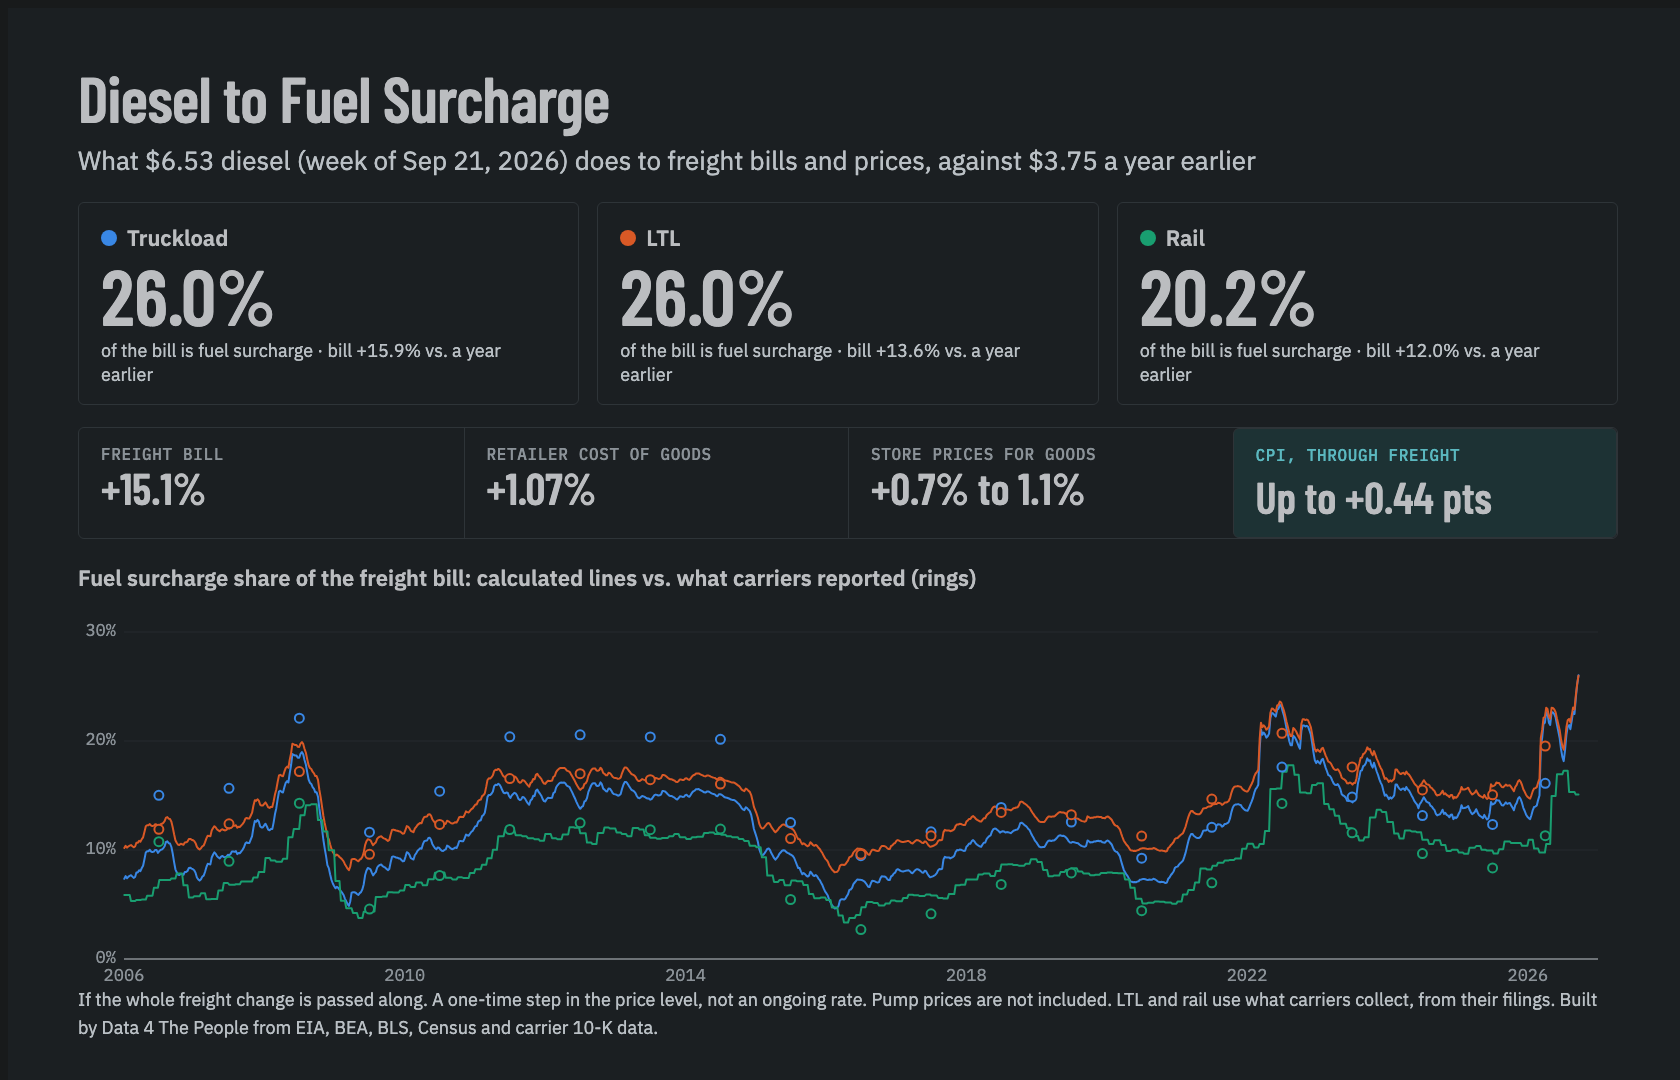
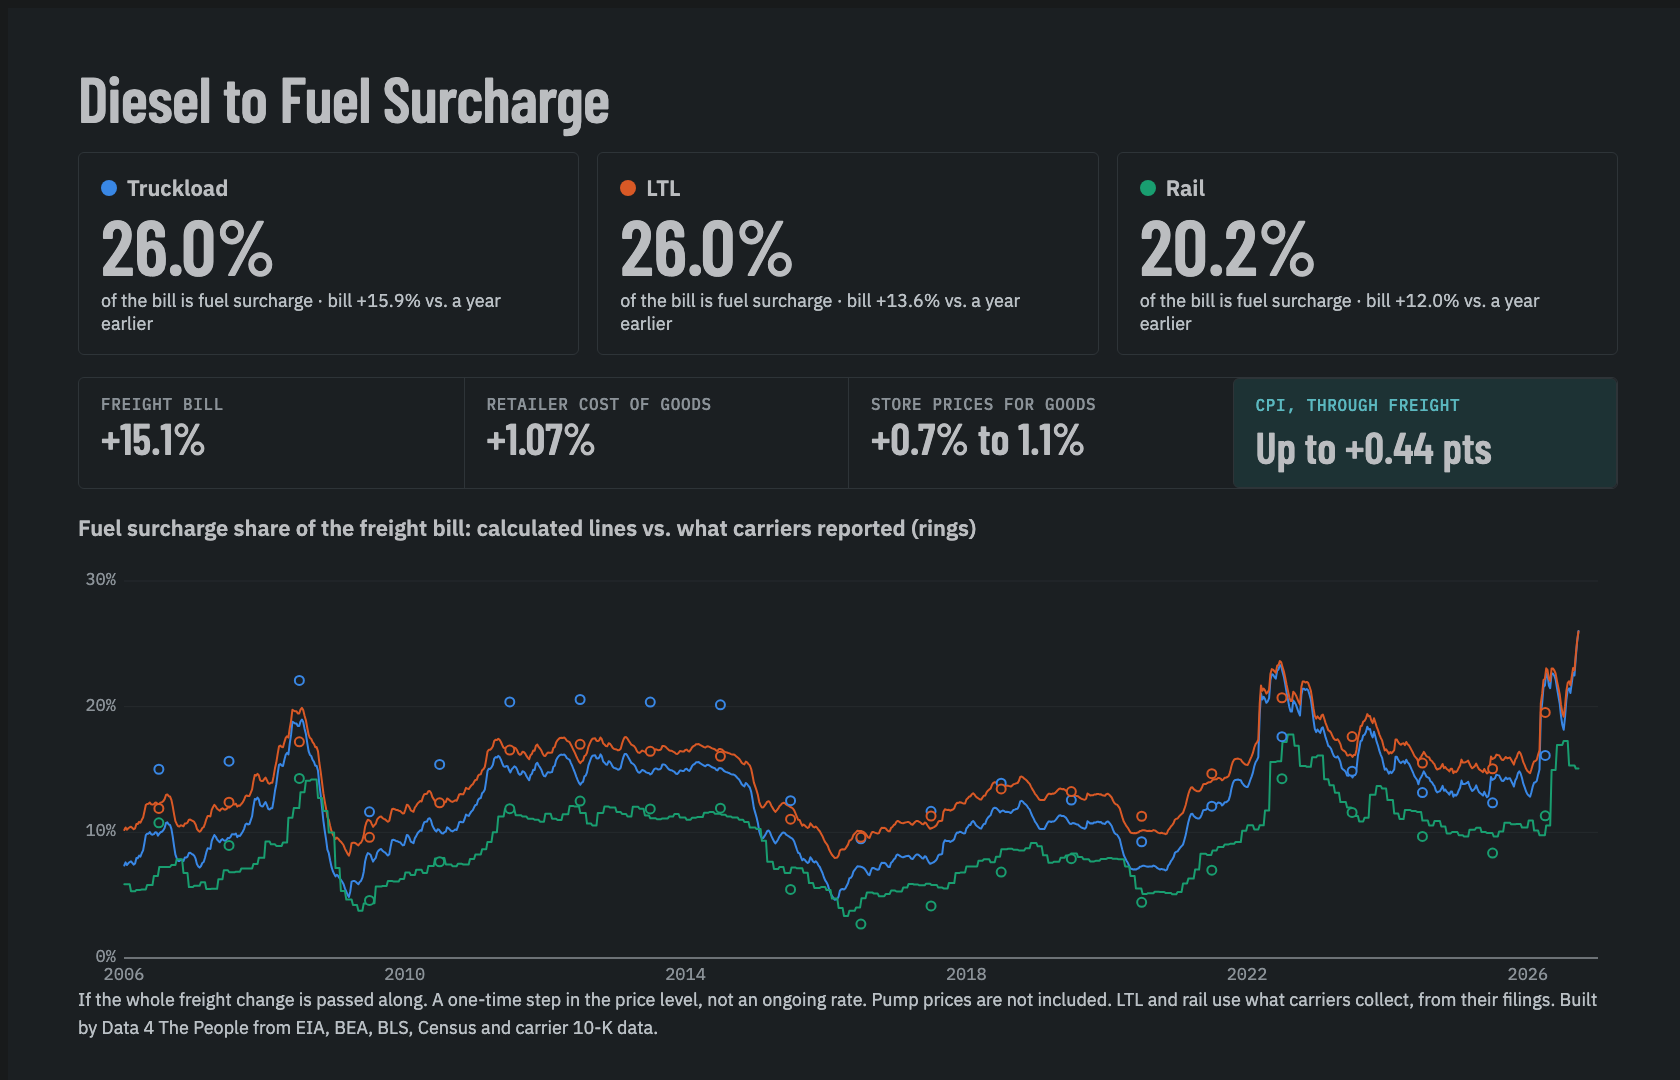
fuel-surcharge-impact-viz: drop the in-embed link, use the page blurb instead

diff --git a/dist/index.html b/dist/index.html
@@ -142,6 +142,7 @@ body.is-embed #embedView{display:flex}
 .e-top{display:flex;justify-content:space-between;align-items:baseline;gap:12px;flex-wrap:wrap}
 .e-title{font-family:var(--display);font-weight:600;font-size:26px;line-height:1}
 .e-top a{font:500 13px var(--sans);color:var(--accent)}
+#embedView .e-hero-sub{display:none}   /* the hero card shows it; the embed has its own line */
 .e-ctl{display:grid;grid-template-columns:1fr auto;gap:6px 14px;align-items:center}
 .e-price{font-family:var(--display);font-weight:600;font-size:34px;line-height:1}
 .e-sub{grid-column:1/-1;font-size:12.5px;color:var(--ink2)}
@@ -182,7 +183,7 @@ html.hero{--surface:#181A1B;--bg:#181A1B;--ink:#ffffff;--ink2:#BBBDC0;--muted:#8
 .hero #embedView{height:1080px;padding:58px 70px 46px;gap:22px}
 .hero .e-top{display:block}
 .hero .e-title{font-size:64px;letter-spacing:-.01em}
-.hero .e-hero-sub{font-size:26px;color:var(--ink2);margin-top:10px}
+.hero .e-hero-sub{display:block;font-size:26px;color:var(--ink2);margin-top:10px}
 .hero .e-ctl,.hero .e-narrow,.hero #e-full{display:none}
 .hero .e-modes{gap:18px}
 .hero .e-mode{padding:18px 22px;border-color:var(--rule)}
@@ -308,7 +309,7 @@ html.chartonly, html.chartonly body{width:1200px;height:675px;overflow:hidden}
 </div>
 
 <section id="embedView" aria-label="Diesel to Fuel Surcharge summary">
-  <div class="e-top"><div><div class="e-title">Diesel to Fuel Surcharge</div><div class="e-hero-sub" id="e-hero-sub"></div></div><a id="e-full" href="https://data4thepeople.github.io/FreightSurcharge/dist/index.html" target="_blank" rel="noopener">Open the full calculator ↗</a></div>
+  <div class="e-top"><div><div class="e-title">Diesel to Fuel Surcharge</div><div class="e-hero-sub" id="e-hero-sub"></div></div></div>
   <div class="e-ctl">
     <input type="range" id="e-range" min="1" max="10" step="0.01" aria-label="Diesel price">
     <div class="e-price" id="e-price"></div>
@@ -319,7 +320,7 @@ html.chartonly, html.chartonly body{width:1200px;height:675px;overflow:hidden}
   <div class="e-chart-title">Fuel surcharge share of the freight bill: calculated lines vs. what carriers reported (rings)</div>
   <div class="e-legend" id="e-legend"></div>
   <div class="chart" id="e-hist"></div>
-  <div class="e-narrow">The history chart, the freight-bill tables and the methods are in the <a href="https://data4thepeople.github.io/FreightSurcharge/dist/index.html" target="_blank" rel="noopener">full calculator</a>.</div>
+  <div class="e-narrow">The history chart, the freight-bill tables and the methods are in the full calculator, linked just below this box.</div>
   <div class="e-foot" id="e-foot"></div>
   <div class="e-credit">Built by Data 4 The People from EIA diesel prices and carrier 10-K and 10-Q filings</div>
 </section>
@@ -619,19 +620,7 @@ $('dieselRange').value=diesel; $('dieselNum').value=f2(diesel); $('refNum').valu
 render(true);
 let rt; window.addEventListener('resize',()=>{ clearTimeout(rt); rt=setTimeout(()=> EMBED ? embedRender() : charts(),120); });
 $('e-range').oninput = e => { diesel = +e.target.value; embedRender(); };
-/* Links out of the embed: a framed page may not be allowed to open a new tab, so fall back
-   to navigating the page that holds the frame, then to the frame itself. */
-document.querySelectorAll('#embedView a[target="_blank"]').forEach(a => { a.onclick = ev => {
-  ev.preventDefault();
-  const url = a.href;
-  let w = null;
-  try { w = window.open(url, '_blank', 'noopener'); } catch(e) {}
-  if(w) return;
-  try { if(window.top !== window.self){ window.top.location.href = url; return; } } catch(e) {}
-  // Opening in place: use a query parameter, not a #fragment. A fragment-only change does
-  // not reload the page, and reloading by hand cancels the navigation.
-  location.href = url + (url.includes('?') ? '&' : '?') + 'full=1';
-}; });
+
 window.matchMedia('(prefers-color-scheme: dark)').addEventListener('change',()=>charts());
 new MutationObserver(()=>charts()).observe(document.documentElement,{attributes:true,attributeFilter:['data-theme']});
 </script>

diff --git a/src/calculator.template.html b/src/calculator.template.html
@@ -137,6 +137,7 @@ body.is-embed #embedView{display:flex}
 .e-top{display:flex;justify-content:space-between;align-items:baseline;gap:12px;flex-wrap:wrap}
 .e-title{font-family:var(--display);font-weight:600;font-size:26px;line-height:1}
 .e-top a{font:500 13px var(--sans);color:var(--accent)}
+#embedView .e-hero-sub{display:none}   /* the hero card shows it; the embed has its own line */
 .e-ctl{display:grid;grid-template-columns:1fr auto;gap:6px 14px;align-items:center}
 .e-price{font-family:var(--display);font-weight:600;font-size:34px;line-height:1}
 .e-sub{grid-column:1/-1;font-size:12.5px;color:var(--ink2)}
@@ -177,7 +178,7 @@ html.hero{--surface:#181A1B;--bg:#181A1B;--ink:#ffffff;--ink2:#BBBDC0;--muted:#8
 .hero #embedView{height:1080px;padding:58px 70px 46px;gap:22px}
 .hero .e-top{display:block}
 .hero .e-title{font-size:64px;letter-spacing:-.01em}
-.hero .e-hero-sub{font-size:26px;color:var(--ink2);margin-top:10px}
+.hero .e-hero-sub{display:block;font-size:26px;color:var(--ink2);margin-top:10px}
 .hero .e-ctl,.hero .e-narrow,.hero #e-full{display:none}
 .hero .e-modes{gap:18px}
 .hero .e-mode{padding:18px 22px;border-color:var(--rule)}
@@ -300,7 +301,7 @@ html.chartonly, html.chartonly body{width:1200px;height:675px;overflow:hidden}
 </div>
 
 <section id="embedView" aria-label="Diesel to Fuel Surcharge summary">
-  <div class="e-top"><div><div class="e-title">Diesel to Fuel Surcharge</div><div class="e-hero-sub" id="e-hero-sub"></div></div><a id="e-full" href="https://data4thepeople.github.io/FreightSurcharge/dist/index.html" target="_blank" rel="noopener">Open the full calculator ↗</a></div>
+  <div class="e-top"><div><div class="e-title">Diesel to Fuel Surcharge</div><div class="e-hero-sub" id="e-hero-sub"></div></div></div>
   <div class="e-ctl">
     <input type="range" id="e-range" min="1" max="10" step="0.01" aria-label="Diesel price">
     <div class="e-price" id="e-price"></div>
@@ -311,7 +312,7 @@ html.chartonly, html.chartonly body{width:1200px;height:675px;overflow:hidden}
   <div class="e-chart-title">Fuel surcharge share of the freight bill: calculated lines vs. what carriers reported (rings)</div>
   <div class="e-legend" id="e-legend"></div>
   <div class="chart" id="e-hist"></div>
-  <div class="e-narrow">The history chart, the freight-bill tables and the methods are in the <a href="https://data4thepeople.github.io/FreightSurcharge/dist/index.html" target="_blank" rel="noopener">full calculator</a>.</div>
+  <div class="e-narrow">The history chart, the freight-bill tables and the methods are in the full calculator, linked just below this box.</div>
   <div class="e-foot" id="e-foot"></div>
   <div class="e-credit">Built by Data 4 The People from EIA diesel prices and carrier 10-K and 10-Q filings</div>
 </section>
@@ -611,19 +612,7 @@ $('dieselRange').value=diesel; $('dieselNum').value=f2(diesel); $('refNum').valu
 render(true);
 let rt; window.addEventListener('resize',()=>{ clearTimeout(rt); rt=setTimeout(()=> EMBED ? embedRender() : charts(),120); });
 $('e-range').oninput = e => { diesel = +e.target.value; embedRender(); };
-/* Links out of the embed: a framed page may not be allowed to open a new tab, so fall back
-   to navigating the page that holds the frame, then to the frame itself. */
-document.querySelectorAll('#embedView a[target="_blank"]').forEach(a => { a.onclick = ev => {
-  ev.preventDefault();
-  const url = a.href;
-  let w = null;
-  try { w = window.open(url, '_blank', 'noopener'); } catch(e) {}
-  if(w) return;
-  try { if(window.top !== window.self){ window.top.location.href = url; return; } } catch(e) {}
-  // Opening in place: use a query parameter, not a #fragment. A fragment-only change does
-  // not reload the page, and reloading by hand cancels the navigation.
-  location.href = url + (url.includes('?') ? '&' : '?') + 'full=1';
-}; });
+
 window.matchMedia('(prefers-color-scheme: dark)').addEventListener('change',()=>charts());
 new MutationObserver(()=>charts()).observe(document.documentElement,{attributes:true,attributeFilter:['data-theme']});
 </script>

diff --git a/posts/fuel-surcharge-impact-viz/POST.md b/posts/fuel-surcharge-impact-viz/POST.md
@@ -34,7 +34,7 @@ dividers: false
 
 # Diesel Fuel Surcharge Calculator: How Diesel Prices Reach Freight Bills and the CPI
 
-<iframe src="https://data4thepeople.github.io/FreightSurcharge/dist/index.html?v=20260923#embed=1" width="100%" height="780" loading="lazy" style="border:0" title="Diesel to Fuel Surcharge: fuel surcharge and price calculator"></iframe>
+<iframe src="https://data4thepeople.github.io/FreightSurcharge/dist/index.html?v=20260923b#embed=1" width="100%" height="780" loading="lazy" style="border:0" title="Diesel to Fuel Surcharge: fuel surcharge and price calculator"></iframe>
 
 ::: spacer 40px
 
